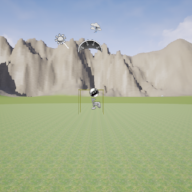
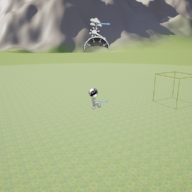
After Lesson 221

diff --git a/BattleTank/Source/BattleTank/Private/TankAimingComponent.cpp b/BattleTank/Source/BattleTank/Private/TankAimingComponent.cpp
@@ -21,46 +21,44 @@ void UTankAimingComponent::SetBarrelReference(UStaticMeshComponent* BarrelToSet)
 }
 
 
-// Called when the game starts
-void UTankAimingComponent::BeginPlay()
-{
-    Super::BeginPlay();
-
-    // ...
-}
-
-
-// Called every frame
-void UTankAimingComponent::TickComponent(const float DeltaTime, const ELevelTick TickType,
-                                         FActorComponentTickFunction* ThisTickFunction)
-{
-    Super::TickComponent(DeltaTime, TickType, ThisTickFunction);
-    // ...
-}
-
-void UTankAimingComponent::AimAt(const FVector HitLocation, const float LaunchSpeed) const
+void UTankAimingComponent::AimAt(const FVector HitLocation, const float LaunchSpeed)
 {
     if (!Barrel) return;
 
-    bool bIsInRange = false;
     const FVector StartLocation = Barrel->GetSocketLocation(FName("Projectile"));
     FVector OutLaunchVelocity;
 
-    bIsInRange = UGameplayStatics::SuggestProjectileVelocity(
+    const bool bHaveAimSolution = UGameplayStatics::SuggestProjectileVelocity(
         this,
         OutLaunchVelocity,
         StartLocation,
         HitLocation,
         LaunchSpeed,
-        false,
-        0,
-        0,
         ESuggestProjVelocityTraceOption::DoNotTrace
     );
 
-    if (!bIsInRange) return;
+    if (!bHaveAimSolution) return;
 
     const auto AimDirection = OutLaunchVelocity.GetSafeNormal();
+    MoveBarrelTowards(AimDirection);
+}
+
+void UTankAimingComponent::MoveBarrelTowards(const FVector AimDirection)
+{
+    // work out difference between current barrel rotation & aim direction
+    auto BarrelRtt = Barrel->GetForwardVector().Rotation();
+    auto AimRtt = AimDirection.Rotation();
     const auto TankName = GetOwner()->GetName();
-    UE_LOG(LogTemp, Warning, TEXT("%s aiming at %s."), *TankName, *AimDirection.ToString());
+    UE_LOG(LogTemp, Warning, TEXT("%s wants to aim in %s direction, but barrel is stuck at %s."), *TankName,
+           *AimRtt.ToString(), *BarrelRtt.ToString());
+
+    auto DeltaRtt = AimRtt - BarrelRtt;
+
+    // move the barrel the right amount this frame, give:
+    // max elevation speed, frame time
+    
+    
+    // get rotation from out launch v
+    // start moving y-rot of barrel to y-rot of launch v
+    // start moving z-rot of turret to z-rot of launch v
 }

diff --git a/BattleTank/Source/BattleTank/Public/TankAimingComponent.h b/BattleTank/Source/BattleTank/Public/TankAimingComponent.h
@@ -16,18 +16,8 @@ public:
     // Sets default values for this component's properties
     UTankAimingComponent();
     void SetBarrelReference(UStaticMeshComponent* BarrelToSet);
-
-
-private:
-    // Called when the game starts
-    virtual void BeginPlay() override;
-
-    // Called every frame
-    virtual void TickComponent(float DeltaTime, ELevelTick TickType,
-                               FActorComponentTickFunction* ThisTickFunction) override;
-
-public:
-    void AimAt(const FVector HitLocation, float LaunchSpeed) const;
+    void AimAt(const FVector HitLocation, float LaunchSpeed);
 private:
     UStaticMeshComponent* Barrel = nullptr;
+    void MoveBarrelTowards(FVector AimDirection);
 };
